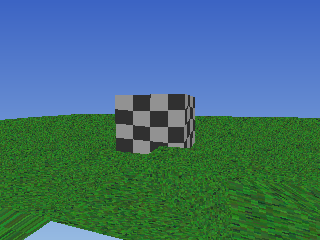
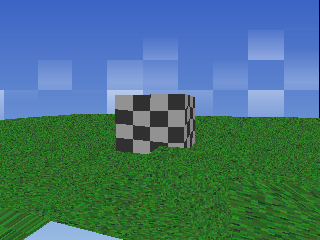
GPU sky: pixelated clouds via a yaw-panned panorama texture
The GPU path's flat gradient sky now carries the chunky cloud streaks too:

- texture.hml: tex_sky() bakes the gradient + tileable chunky clouds into a
  panorama texture (periodic hash -> seamless horizontal wrap)
- scene_gpu.hml: the sky is a fullscreen quad sampling that texture, its UV
  window panned by camera yaw so the clouds slide as you turn. When the window
  crosses the wrap seam it splits into two quads so UVs always stay in [0,1] —
  no reliance on GPU/software texture-wrap behaviour (which differs, and would
  break parity)
- walk_gpu / geom_scene pass yaw + the sky texture through

Interpreter and compiler stay byte-identical. -> docs/scene_gpu.png

diff --git a/README.md b/README.md
@@ -64,7 +64,7 @@ window: `SDL_VIDEODRIVER=dummy hemlock examples/plasma.hml`.
 - [x] sky: gradient + chunky pixelated cloud streaks that pan with the camera (CPU path)
 - [x] GPU backend via `SDL_RenderGeometry` — affine UVs, painter's sort, Gouraud (offloads rasterization, keeps the wobble)
 - [ ] near-plane clipping (fixes the edge artifacts when close to the ground)
-- [ ] clouds on the GPU sky (bake the cloud layer into a panned sky texture)
+- [x] clouds on the GPU sky — tileable panorama texture panned by yaw, seam-split so UVs stay in [0,1]
 - [ ] retro post-fx (5-bit color + ordered dither, vertex jitter)
 - [ ] OBJ mesh loader + per-vertex Gouraud lighting
 
